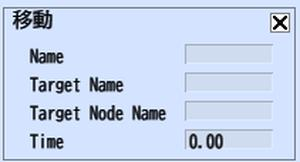
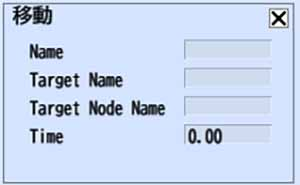
現バージョンでワールドビルダー上で実行が不十分なアクションにワーニングを追加

Changed region(s): [[0.0, 0.0, 0.99, 1.0], [0.09, 0.216, 0.57, 0.8025], [0.09, 0.8025, 0.21, 0.9259]]

diff --git a/docs/Actions/Item/PlayStopItem.ja.md b/docs/Actions/Item/PlayStopItem.ja.md
@@ -1,5 +1,9 @@
 # アイテム再生/停止
 
+!!! warning アイテム再生/停止について
+    現バージョンでは、World Builder上でこのアクションを実行することができません。
+    ワールドをアップロードすることで、アクションを実行することができます。
+
 ![PlayStopItem_1](img/PlayStopItem_1.jpg)
 
 ## 概要
@@ -13,7 +17,3 @@
 ## StopItemについて
 
 アイテム停止は、音声を停止します。
-
-!!! warning 音声の再生について
-    現バージョンでは、World Builder上で音声を再生することはできます。
-    ワールドをアップロードすることで、音声を再生することができます

diff --git a/docs/Actions/Node/EnableDisableCollider.en.md b/docs/Actions/Node/EnableDisableCollider.en.md
@@ -1,5 +1,9 @@
 # コライダー有効化/無効化
 
+!!! warning コライダー有効化/無効化について
+    現バージョンでは、World Builder上でこのアクションを実行することができません。
+    ワールドをアップロードすることで、アクションを実行することができます。
+
 ![EnableDisableCollider](img/EnableDisableCollider.jpg)
 
 コライダー有効化/無効化は、アイテムを構成するノードに含まれるコライダーの無効化・有効化をコントロールします。

diff --git a/docs/Actions/Node/EnableDisableCollider.ja.md b/docs/Actions/Node/EnableDisableCollider.ja.md
@@ -1,5 +1,9 @@
 # コライダー有効化/無効化
 
+!!! warning コライダー有効化/無効化について
+    現バージョンでは、World Builder上でこのアクションを実行することができません。
+    ワールドをアップロードすることで、アクションを実行することができます。
+
 ![EnableDisableCollider](img/EnableDisableCollider.jpg)
 
 コライダー有効化/無効化は、アイテムを構成するノードに含まれるコライダーの無効化・有効化をコントロールします。

diff --git a/docs/Actions/Node/EnableDisableClickableNode.ja.md b/docs/Actions/Node/EnableDisableClickableNode.ja.md
@@ -1,5 +1,9 @@
 # クリック可能ノード有効化/無効化
 
+!!! warning クリック可能ノード有効化/無効化について
+    現バージョンでは、World Builder上でこのアクションを実行することができません。
+    ワールドをアップロードすることで、アクションを実行することができます。
+
 ![EnableDisableClickableNode](img/EnableDisableClickableNode.jpg)
 
 このアクションは、アイテムを構成するノードがクリックできるかどうかを切り替えます。

diff --git a/docs/Actions/Node/EnableDisableClickableNode.en.md b/docs/Actions/Node/EnableDisableClickableNode.en.md
@@ -1,5 +1,9 @@
 # Enable/DisableClickableNode
 
+!!! warning クリック可能ノード有効化/無効化について
+    現バージョンでは、World Builder上でこのアクションを実行することができません。
+    ワールドをアップロードすることで、アクションを実行することができます。
+
 ![EnableDisableClickableNode](img/EnableDisableClickableNode.jpg)
 
 このアクションは、アイテムを構成するノードがクリックできるかどうかを切り替えます。

diff --git a/docs/Actions/Transform/MoveTo.ja.md b/docs/Actions/Transform/MoveTo.ja.md
@@ -1,5 +1,9 @@
-
 # 移動
+
+!!! warning 移動について
+    現バージョンでは、World Builder上でこのアクションを実行すると、移動先の座標を設定していても、原点位置に移動してしまいます。
+    ワールドアップロード後であれば、アクションを正常に実行することができます。
+
 ![MoveTo](img/MoveTo.jpg)
 
 移動は、アイテムを指定したオブジェクトまで線形移動させます。

diff --git a/docs/Actions/Fade/FadeOutIn.ja.md b/docs/Actions/Fade/FadeOutIn.ja.md
@@ -1,5 +1,9 @@
-
 # フェードアウト/イン
+
+!!! warning フェードアウト/インについて
+    現バージョンでは、World Builder上でこのアクションを実行することができません。
+    ワールドをアップロードすることで、アクションを実行することができます。
+
 ![FadeOutIn](img/FadeOutIn.jpg)
 
 フェードアウトが実行されると、指定した時間をかけて、画面を暗転させます。

diff --git a/docs/Actions/Item/PlayStopItem.en.md b/docs/Actions/Item/PlayStopItem.en.md
@@ -15,4 +15,4 @@ To play audio, you need to add the audio to the world.
 StopItem will stop audio.
 
 !!! warning Regarding Audio Playback
-    Regarding Audio Playback In the current version, you can play audio in the World Builder. By uploading the world, you can enable audio playback.
+    Regarding Audio Playback In the current version, you can't play audio in the World Builder. By uploading the world, you can enable audio playback.

diff --git a/docs/Actions/Transform/MoveTo.en.md b/docs/Actions/Transform/MoveTo.en.md
@@ -1,5 +1,9 @@
-
 # Move To
+
+!!! warning 移動について
+    現バージョンでは、World Builder上でこのアクションを実行することができません。
+    ワールドをアップロードすることで、アクションを実行することができます。
+
 ![MoveTo](img/MoveTo.jpg)
 
 移動は、アイテムを指定したオブジェクトまで線形移動させます。
